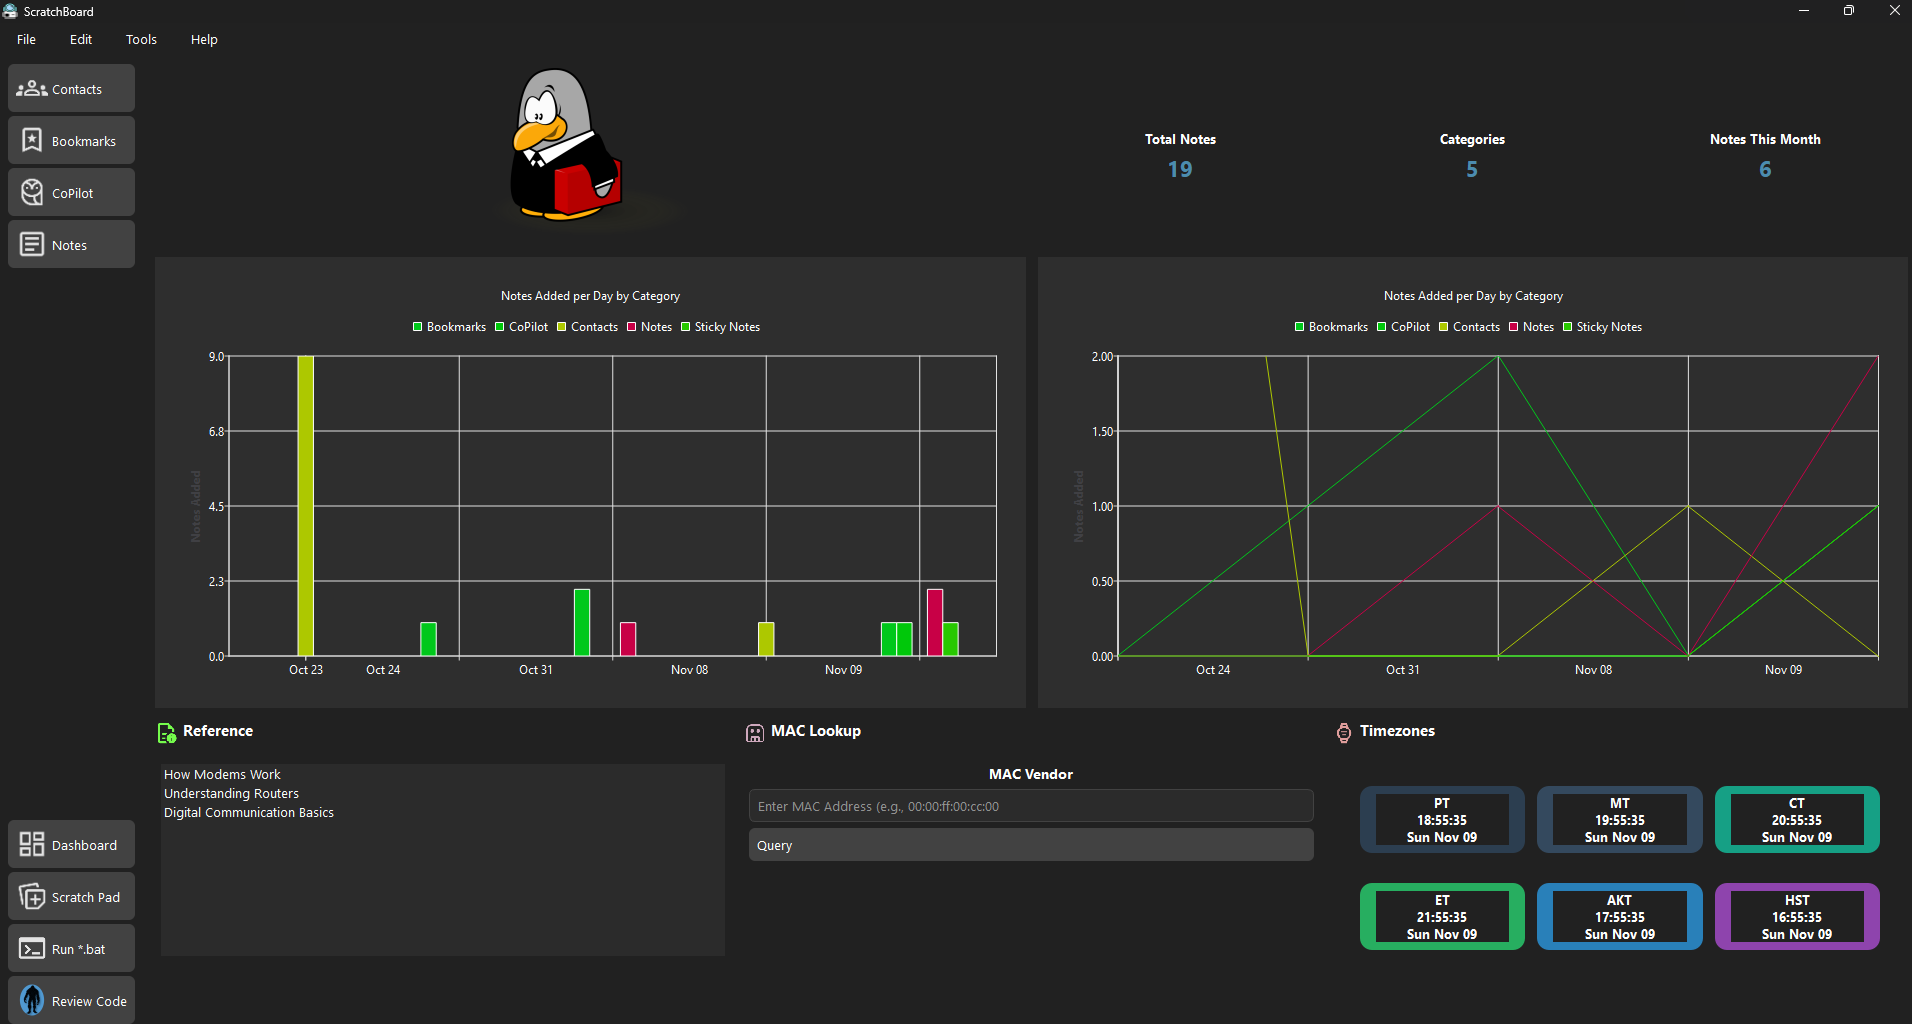
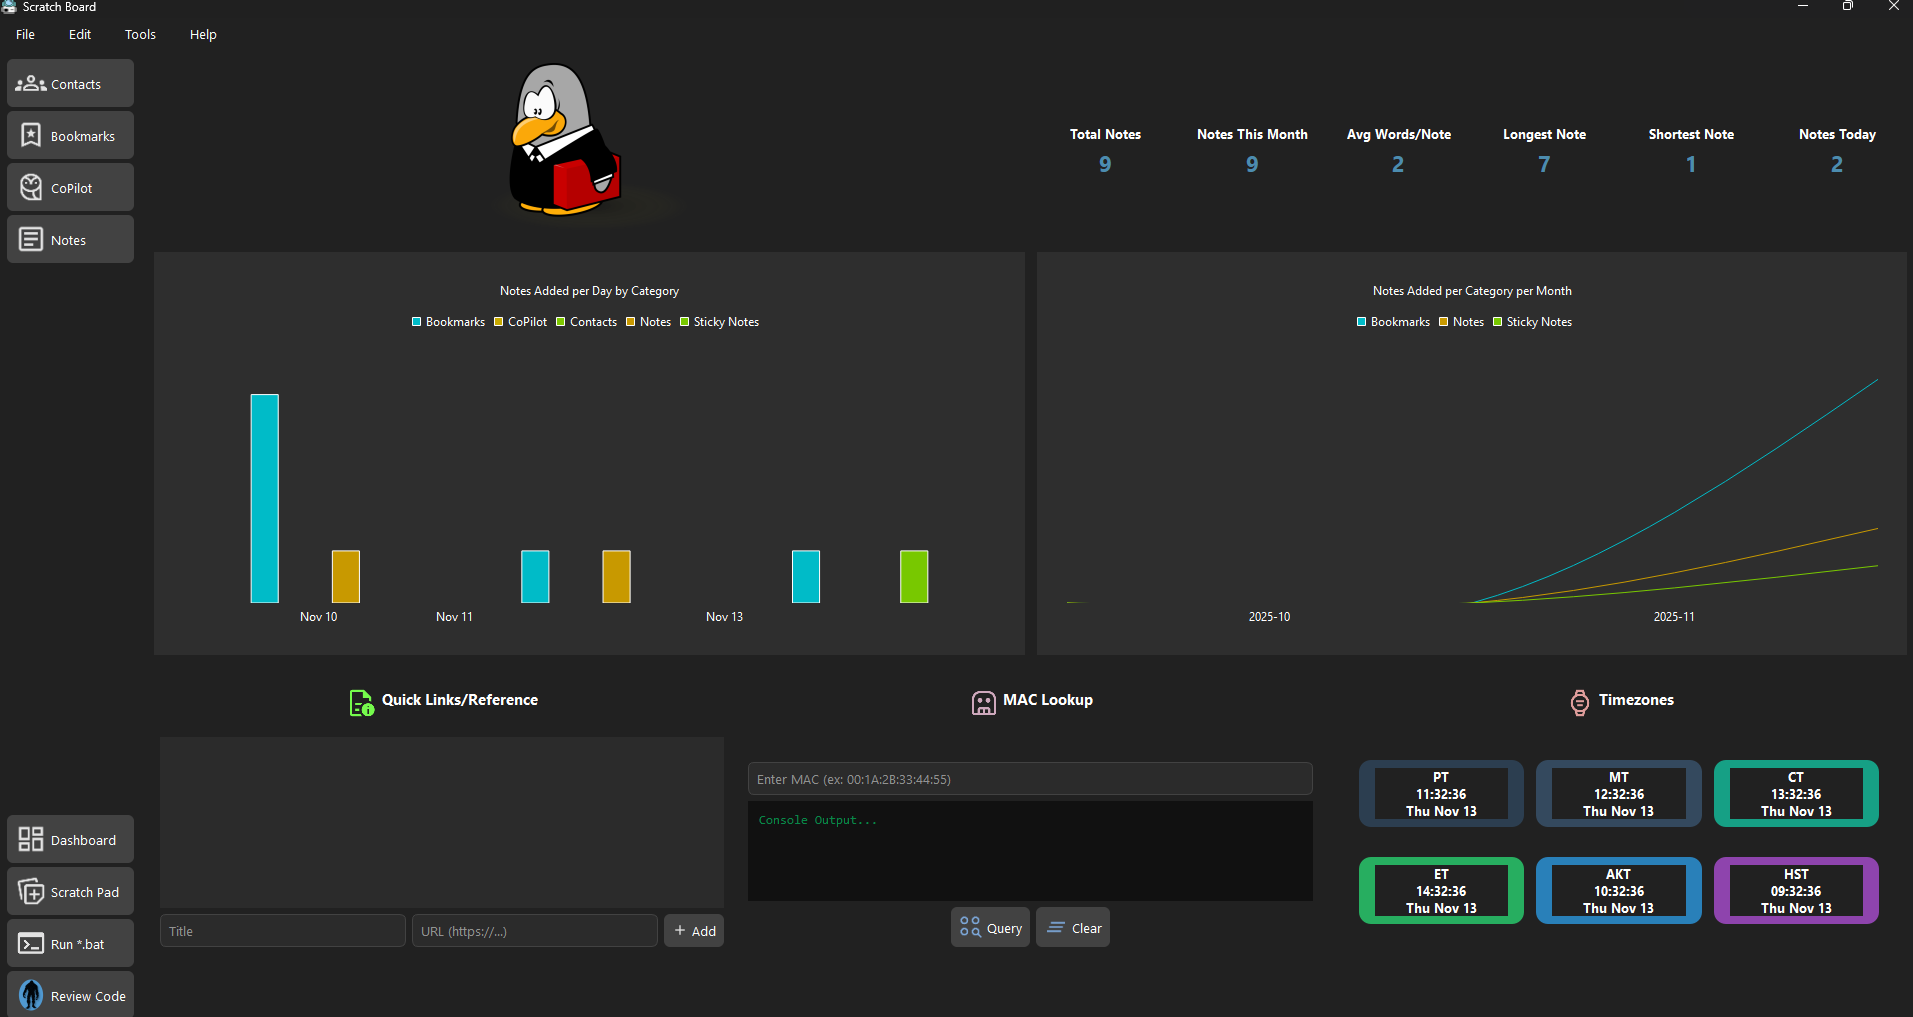
ref: updated README.md and the program screenshot

diff --git a/README.md b/README.md
@@ -1,18 +1,21 @@
 # Scratch Board
 
-**Scratch Board** is a lightweight desktop productivity app that combines note-taking, scratch notes (sticky notes), and fun interactive tools like a built-in Pac-Man game. Designed for quick note capture and playful exploration, it keeps your ideas organized while adding a touch of fun.
+**Scratch Board** is a lightweight desktop productivity app that combines note-taking, scratch notes (sticky notes), and interactive tools such as a MAC vendor lookup. Designed for capturing quick notes and playful exploration, it keeps your ideas organized while adding a touch of fun.
 
 ---
 
 ## Features
 
 - **Scratch Notes:** Create colorful, draggable, and resizable sticky notes with auto-save.  
-- **Markdown Text Formatting:** Use markdown formatting to jot down notes and preview the html version side by side in a preview panel.  
+- **Basic Markdown Text Formatting:** Use markdown formatting to jot down notes and preview the html version side by side in a preview panel.  
 - **Dashboard:** Modern dashboard that includes statistics, graphs, and helpful widgets.  
-- **Sidebar Navigation:** Quickly switch between different views of the app.  
+- **Sidebar Navigation:** Quickly switch between different views of the app.
+- **Execute Batch Files:** Quickly select and execute a windows batch file.
 - **Pac-Man Game:** Take a break with a built-in, playable Pac-Man game.   
 - **Custom Colors:** Change the color of your scratch notes using the color picker.  
-- **Mac Lookup:** Search a MAC address to find the company and country of origin.
+- **Mac Vendor Lookup:** Search a MAC address to find the company and country of origin.
+- **Contacts Rolodex:** Add, edit, and delete contacts with names, emails, phone numbers, and websites.
+- **Quick Links/References:** Add and delete quick links to helpful online resources.
 - **Timezone Clocks:** View the military time for each timezone within the United States.
 
 ---
